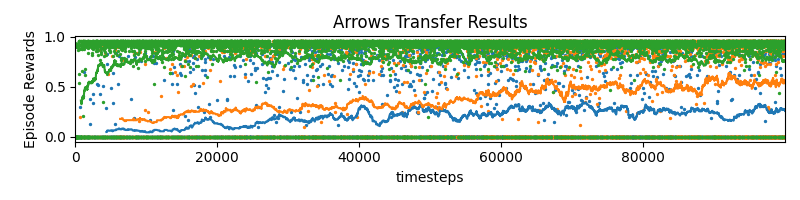
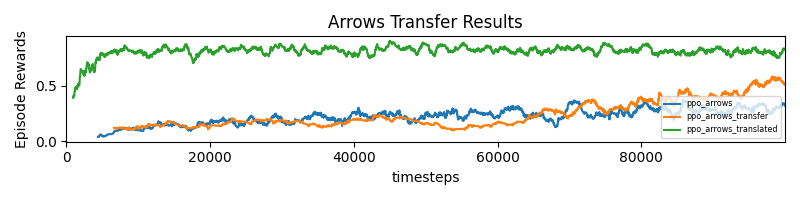
Updated plotting (no points, key added)

diff --git a/utils/plot_utils.py b/utils/plot_utils.py
@@ -1,0 +1,73 @@
+from typing import Callable, List, Optional, Tuple
+
+import numpy as np
+from matplotlib import pyplot as plt
+
+from stable_baselines3.common.results_plotter import window_func, load_results, ts2xy
+
+X_TIMESTEPS = "timesteps"
+X_EPISODES = "episodes"
+X_WALLTIME = "walltime_hrs"
+POSSIBLE_X_AXES = [X_TIMESTEPS, X_EPISODES, X_WALLTIME]
+EPISODES_WINDOW = 100
+
+
+
+def plot_results_modified(
+    dirs: List[str], num_timesteps: Optional[int], x_axis: str, task_name: str, labels: list, figsize: Tuple[int, int] = (8, 2),
+        show_points=False) -> None:
+    """
+    Plot the results using csv files from ``Monitor`` wrapper.
+
+    :param dirs: the save location of the results to plot
+    :param num_timesteps: only plot the points below this value
+    :param x_axis: the axis for the x and y output
+        (can be X_TIMESTEPS='timesteps', X_EPISODES='episodes' or X_WALLTIME='walltime_hrs')
+    :param task_name: the title of the task to plot
+    :param labels: list of labels used for the plot legend
+    :param figsize: Size of the figure (width, height)
+    :param show_points: Whether to show points (in addition to mean curves)
+    """
+
+    data_frames = []
+    for folder in dirs:
+        data_frame = load_results(folder)
+        if num_timesteps is not None:
+            data_frame = data_frame[data_frame.l.cumsum() <= num_timesteps]
+        data_frames.append(data_frame)
+    xy_list = [ts2xy(data_frame, x_axis) for data_frame in data_frames]
+    plot_curves(xy_list, x_axis, task_name, labels, figsize, show_points)
+
+
+def plot_curves(
+    xy_list: List[Tuple[np.ndarray, np.ndarray]], x_axis: str, title: str, labels: list, figsize: Tuple[int, int] = (8, 2),
+        show_points=False) -> None:
+    """
+    plot the curves
+
+    :param xy_list: the x and y coordinates to plot
+    :param x_axis: the axis for the x and y output
+        (can be X_TIMESTEPS='timesteps', X_EPISODES='episodes' or X_WALLTIME='walltime_hrs')
+    :param title: the title of the plot
+    :param labels: list of labels used for the plot legend
+    :param figsize: Size of the figure (width, height)
+    :param show_points: Whether to show points (in addition to mean curves)
+    """
+
+    plt.figure(title, figsize=figsize)
+    max_x = max(xy[0][-1] for xy in xy_list)
+    min_x = 0
+    for (i, (x, y)) in enumerate(xy_list):
+        if show_points:
+            plt.scatter(x, y, s=2)
+        # Do not plot the smoothed curve at all if the timeseries is shorter than window size.
+        if x.shape[0] >= EPISODES_WINDOW:
+            # Compute and plot rolling mean with window of size EPISODE_WINDOW
+            x, y_mean = window_func(x, y, EPISODES_WINDOW, np.mean)
+            plt.plot(x, y_mean, label=labels[i])
+    plt.xlim(min_x, max_x)
+    plt.title(title)
+    plt.xlabel(x_axis)
+    plt.legend(loc='lower right', fontsize='xx-small')
+    plt.ylabel("Episode Rewards")
+    plt.tight_layout()

diff --git a/plot_results.py b/plot_results.py
@@ -1,16 +1,20 @@
 import os
 import argparse
 import matplotlib.pyplot as plt
-from stable_baselines3.common import results_plotter
 from config import LOG_DIR
+
+from stable_baselines3.common.results_plotter import X_TIMESTEPS
+
+from utils.plot_utils import plot_results_modified
 
 
 def plot_results(dirs=["ppo_arrows", "ppo_arrows_transfer", "ppo_arrows_translated"], time_steps=1e5,
-                 title="Arrows Transfer Results"):
+                 title="Arrows Transfer Results", show_points=False):
     parent = os.path.join(os.path.dirname(__file__), LOG_DIR)
-    dirs = [os.path.join(parent, d) for d in dirs]
-    results_plotter.plot_results(dirs, time_steps, results_plotter.X_TIMESTEPS, title)
+    root_dirs = [os.path.join(parent, d) for d in dirs]
+    plot_results_modified(root_dirs, time_steps, X_TIMESTEPS, title, labels=dirs, show_points=show_points)
     plt.show()
+
 
 if __name__ == "__main__":
     parser = argparse.ArgumentParser()
